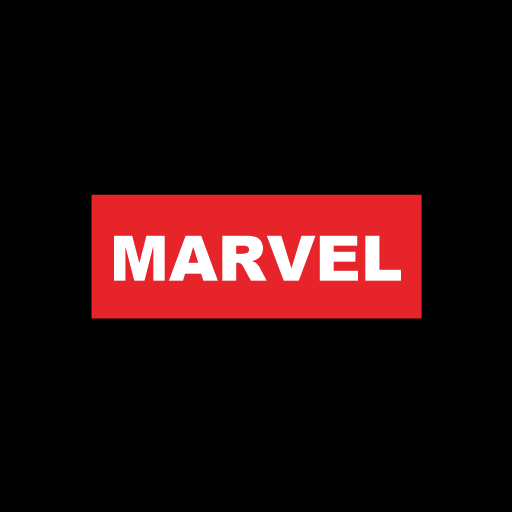
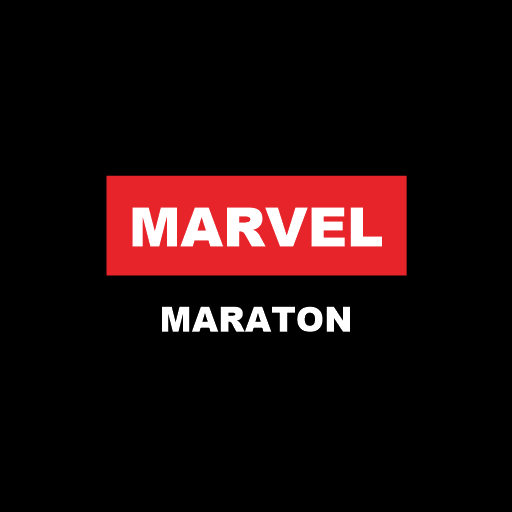
Maskable ikona ponovo sa "MARATON" (staje u bezbednu zonu)
Prethodna maskable verzija je zbog opreza izbacila "MARATON".
Provereno racunski da oba elementa staju u centralni krug od 80%:
kutija 170px i tekst 140px od centra, granica 205px (na 512).

Changed region(s): [[0.1562, 0.3438, 0.8438, 0.6562]]

diff --git a/sw.js b/sw.js
@@ -4,7 +4,7 @@
    VAZNO: podigni CACHE verziju na svaki deploy, inace se
    korisnik zaglavi na staroj verziji app-a.
    ============================================================ */
-const CACHE = 'marvel-maraton-v5';
+const CACHE = 'marvel-maraton-v6';
 
 // App shell — cache-first
 const SHELL = [
